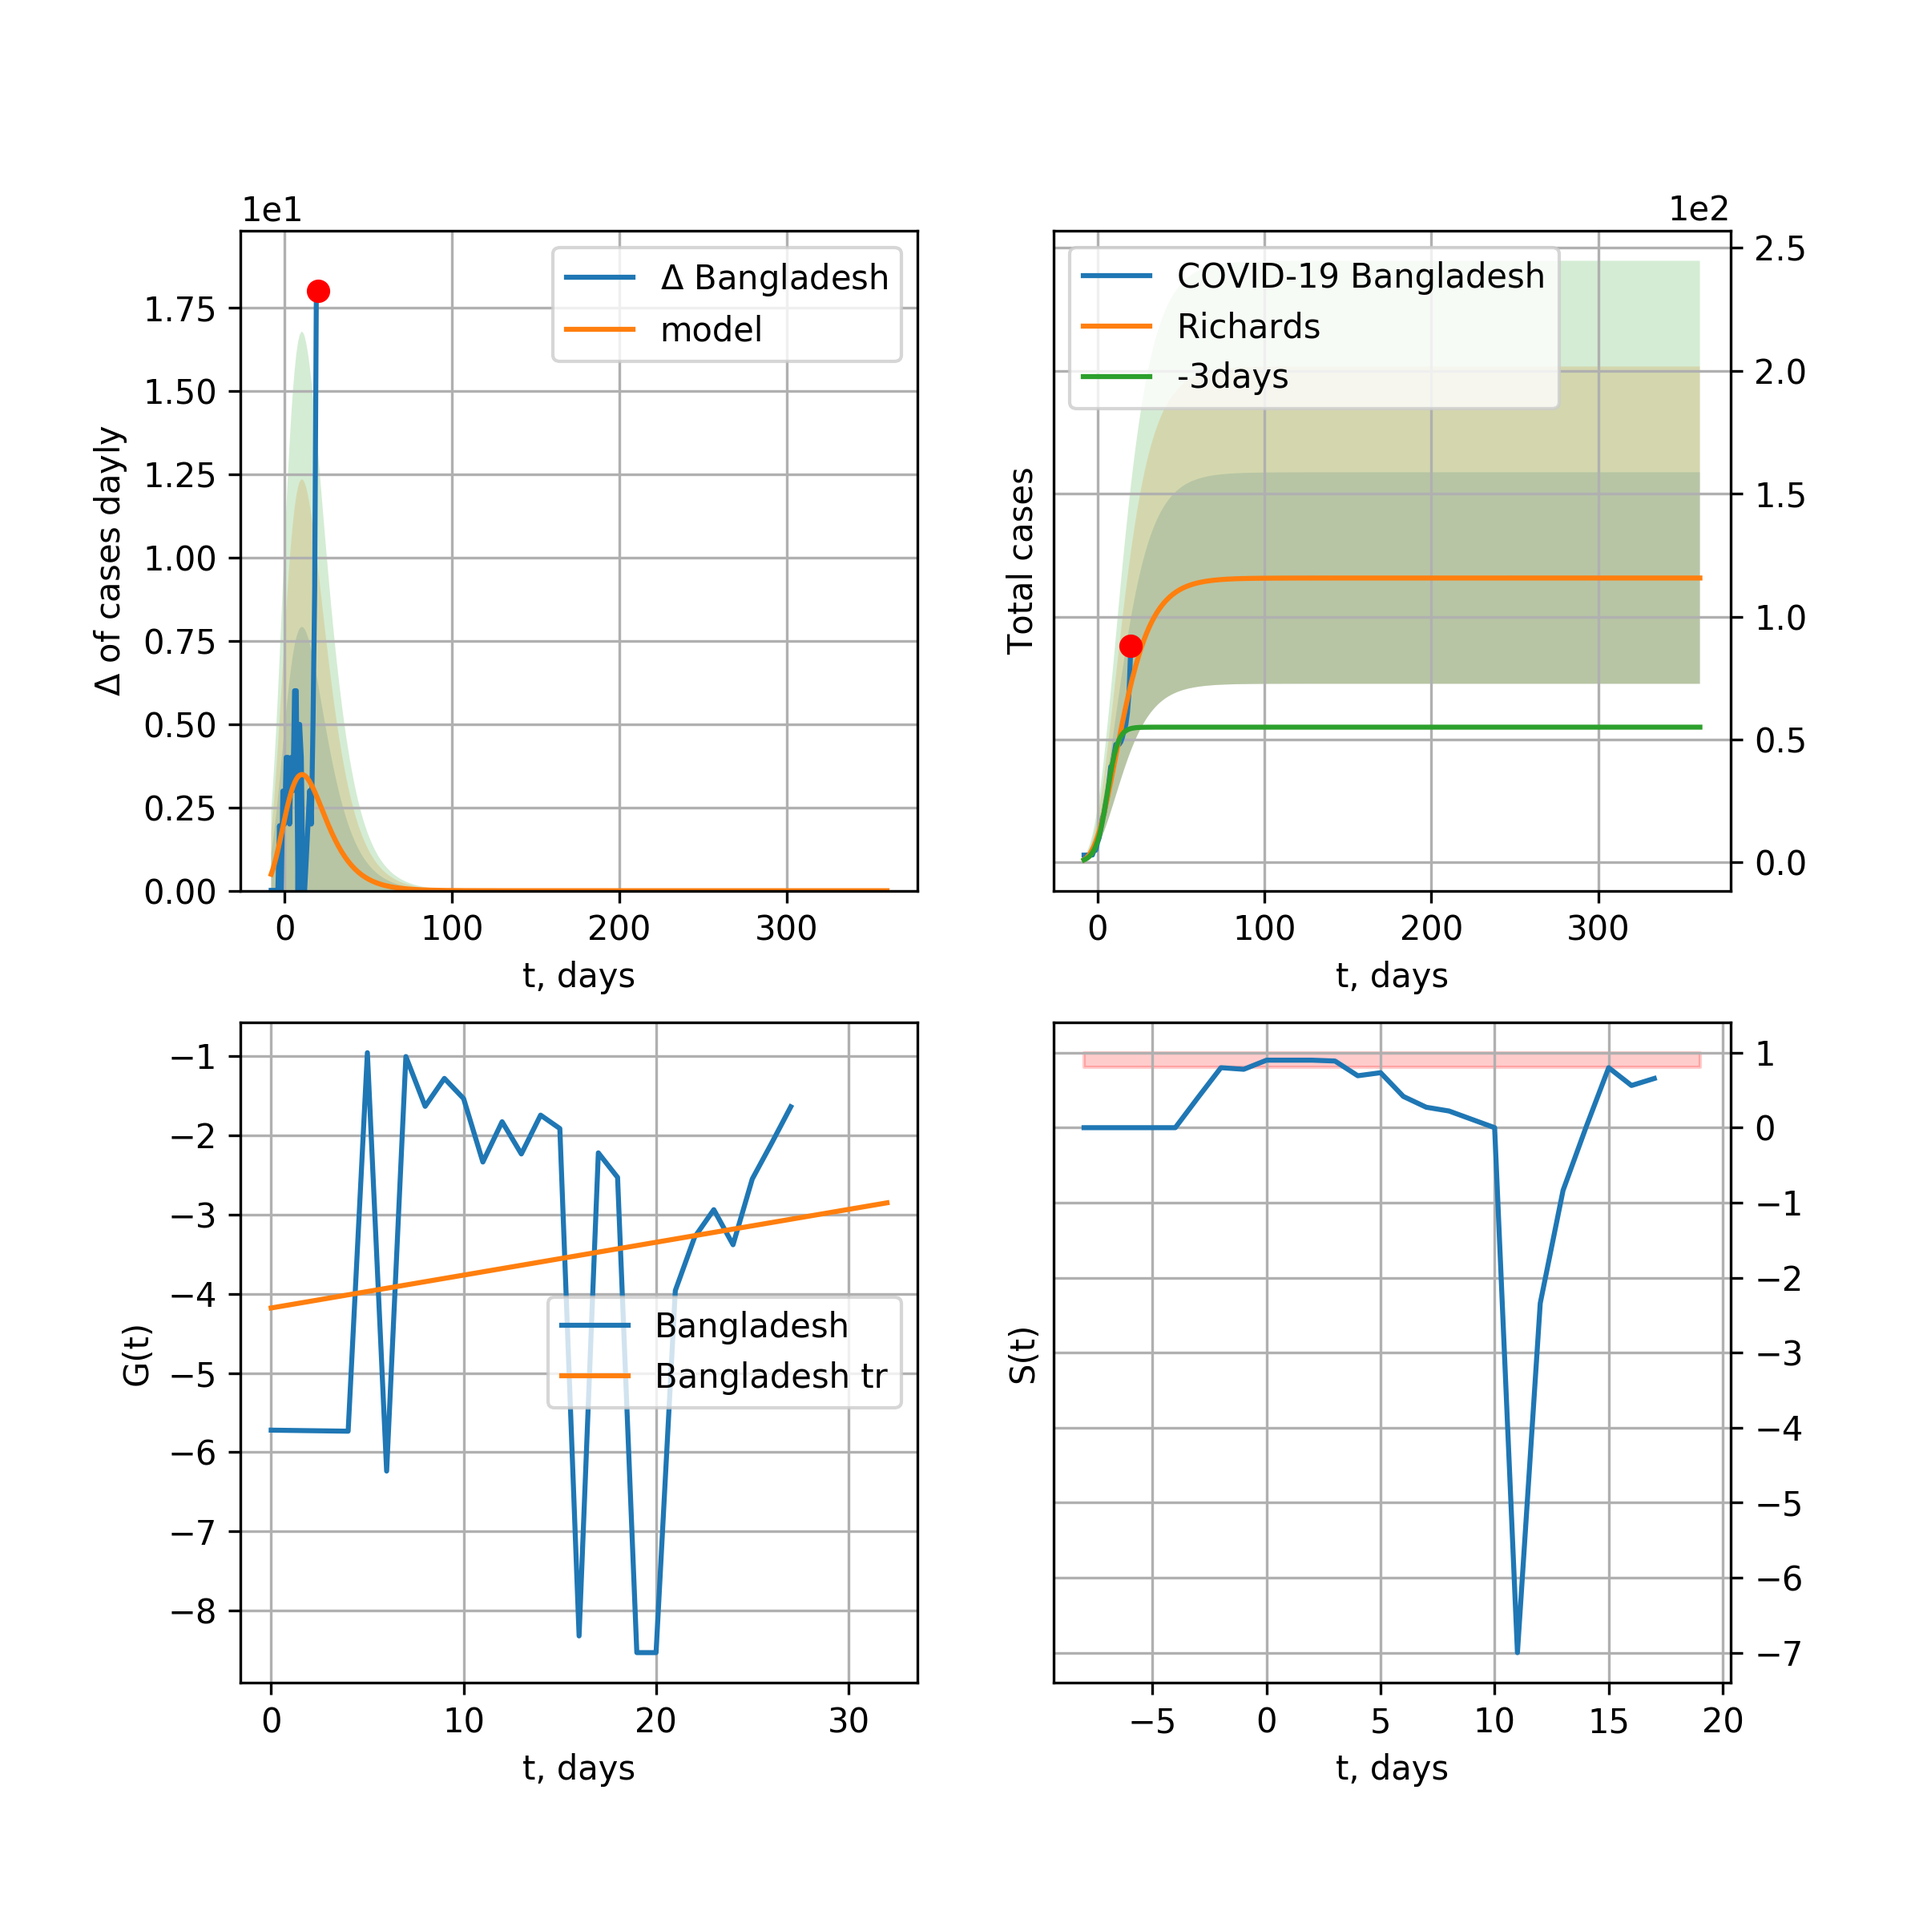
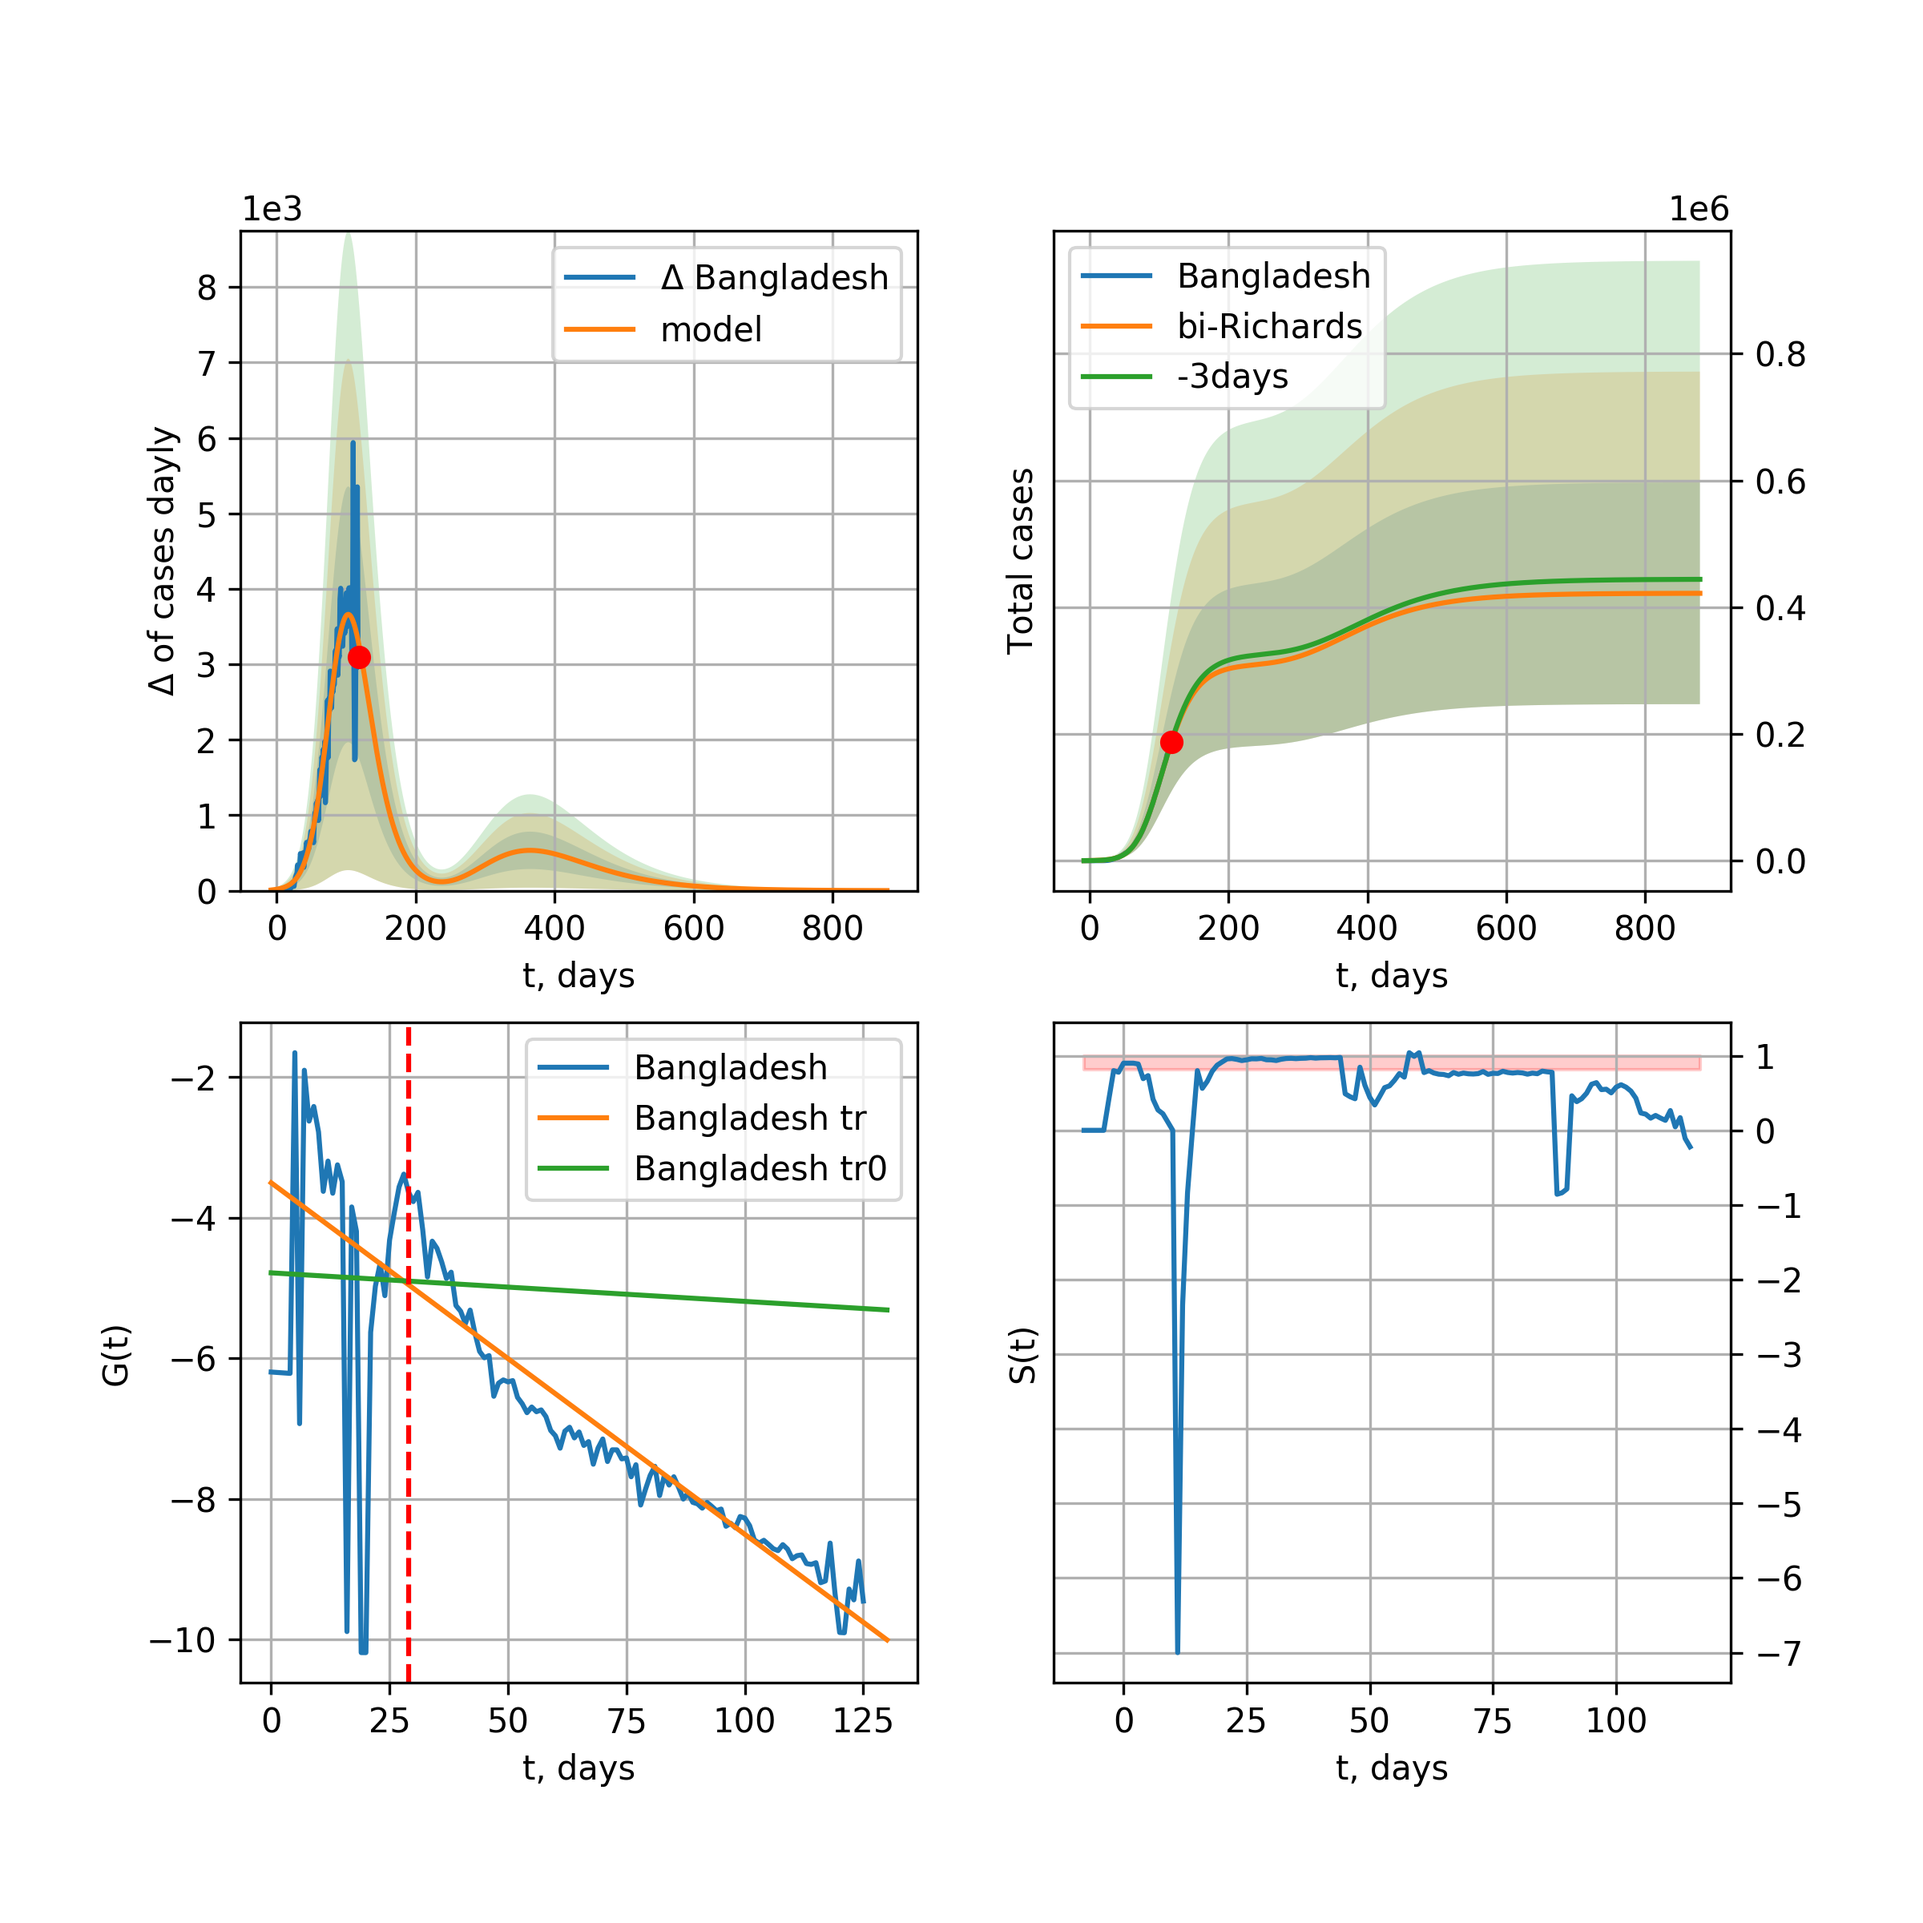
BN renew 2020-07-13

diff --git a/_site/index.html b/_site/index.html
@@ -926,17 +926,21 @@ trend coefficient of determination: 0.798699 <br />
     <img src="pictures/covidcasesBangladesh36_R.png" alt="hi" class="inline"/><br /> 
 
       Bangladesh data at: 2020-07-13<br />
-+3 day model MAPE: 0.373626<br />
-model: Richards<br />
-coeffs: [ 1.15736925e+02  6.45824667e+00 -4.20178539e+01  1.27654554e-02]<br />
-rational stdev: 0.371727<br />
-forecast at the end of period: +341 days<br />
-	 deltaDaycases: 0<br />
-	 total cases: 115 ± 43<br />
-	 total death: 1 ± 1<br />
-trend coefficient of determination: 0.020746 <br />
- intercept: -4.180817 <br />
- slope: 0.041430<br />
++3 day model MAPE: 0.005782<br />
+model: bi-Richards<br />
+coeffs: [3.09645063e+05 8.85150522e-02 8.23554804e+01 4.40816266e-01]<br />
+S.Korea scenario coeffs: [0.36242246, 2.56241634, 1.84890887, 0.13324732]<br />
+rational stdev: 0.414566<br />
+forecast at the end of period: +761 days<br />
+	 deltaDaycases: 1<br />
+	 total cases: 421863 ± 174890<br />
+	 total death: 5397 ± 6712<br />
+bi-Richards approximation splitting point: 29<br />
+trend coefficient of determination: 0.000228 <br />
+ intercept: -4.781993 <br />
+ slope: -0.004061<br />trend coefficient of determination: 0.913627 <br />
+ intercept: -3.501151 <br />
+ slope: -0.050004<br />
           <br /> 
 
     South_Korea
